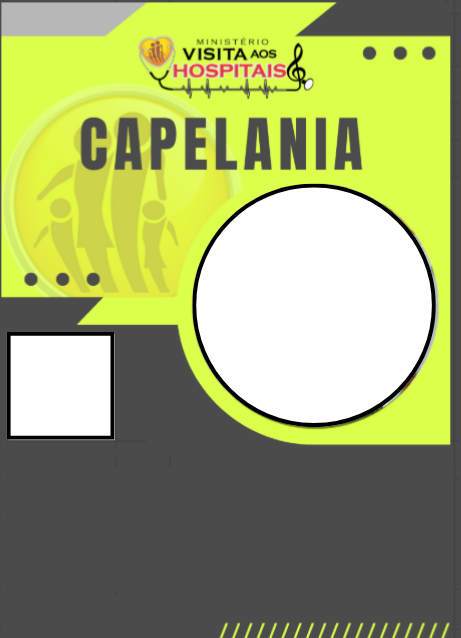
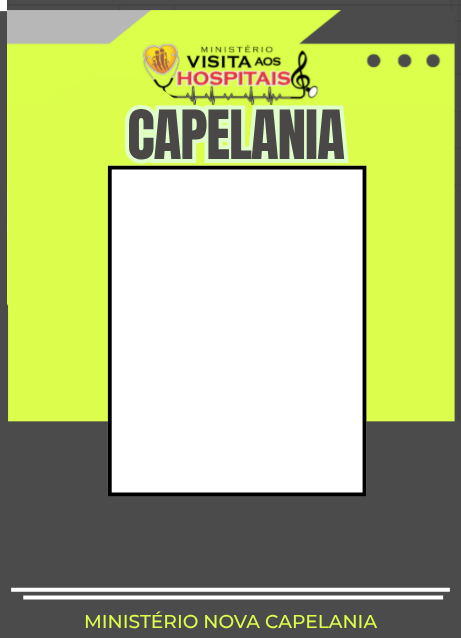
Remove QR code do crachá e ajusta foto pra retângulo (novo layout)
Presença agora é autorregistrada por cada capelão, então o QR de
verificação por Líder deixou de ser necessário. Foto passa de círculo
pra retângulo seguindo a nova arte fornecida (posição calculada por
análise de pixel da imagem, não estimativa visual).

diff --git a/docs/index.html b/docs/index.html
@@ -523,15 +523,13 @@ html,body{height:100%;overflow:hidden;font-family:'DM Sans',sans-serif;backgroun
   }
   .cracha-face.verso{ transform:rotateY(180deg); }
   .cracha-foto{
-    position:absolute; left:42.73%; top:29.47%; width:50.54%; aspect-ratio:1;
-    border-radius:50%; overflow:hidden; background:#e2e8f0;
+    position:absolute; left:24.30%; top:26.65%; width:54.02%; height:50.31%;
+    overflow:hidden; background:#e2e8f0;
     display:flex; align-items:center; justify-content:center; font-weight:700; color:#0f2744; font-size:8cqw;
   }
   .cracha-foto img{ width:100%; height:100%; object-fit:cover }
-  .cracha-qr{ position:absolute; left:2.39%; top:52.66%; width:21.26%; aspect-ratio:1; background:#fff }
-  .cracha-qr img{ width:100%; height:100% }
-  .cracha-nome{ position:absolute; left:5%; top:71%; width:90%; color:#fef9c3; font-weight:800; font-size:6.2cqw; line-height:1.2 }
-  .cracha-rg{ position:absolute; left:5%; top:82%; width:90%; color:#fef9c3; font-weight:700; font-size:4.6cqw }
+  .cracha-nome{ position:absolute; left:5%; top:79%; width:90%; color:#fef9c3; font-weight:800; font-size:6.2cqw; line-height:1.2; text-align:center }
+  .cracha-rg{ position:absolute; left:5%; top:87%; width:90%; color:#fef9c3; font-weight:700; font-size:4.6cqw; text-align:center }
   @media print{
     body > *:not(#sc-cracha){ display:none !important; }
     #sc-cracha .hdr, #sc-cracha .nav, #cracha-acoes{ display:none !important; }
@@ -552,7 +550,6 @@ html,body{height:100%;overflow:hidden;font-family:'DM Sans',sans-serif;backgroun
       <div class="cracha-card" id="cracha-card">
         <div class="cracha-face frente" style="background-image:url('assets/cracha-frente.png')">
           <div class="cracha-foto" id="cracha-foto"></div>
-          <div class="cracha-qr" id="cracha-qr"></div>
           <div class="cracha-nome" id="cracha-nome"></div>
           <div class="cracha-rg" id="cracha-rg"></div>
         </div>
@@ -946,7 +943,7 @@ html,body{height:100%;overflow:hidden;font-family:'DM Sans',sans-serif;backgroun
      sem isso o app instalado (PWA) pode continuar servindo JS antigo do
      cache do navegador por tempo indeterminado, mesmo com o resto do
      site atualizado no GitHub Pages. -->
-<script src="supabase-client.js?v=20260713a"></script>
-<script src="app.js?v=20260713a"></script>
+<script src="supabase-client.js?v=20260716a"></script>
+<script src="app.js?v=20260716a"></script>
 </body>
 </html>

diff --git a/docs/supabase-client.js b/docs/supabase-client.js
@@ -723,12 +723,12 @@ async function supaExcluirEquipe(id) {
 }
 
 // ---------------------------------------------------------------------------
-// Crachá -- dados vêm de `membros` (mesma leitura de sempre); o QR code
-// aponta pra docs/verificar.html, página pública que confirma "membro
-// ativo" sem exigir login (ver 0009_verificacao_publica.sql).
+// Crachá -- dados vêm de `membros` (mesma leitura de sempre). Sem QR code
+// de propósito: cada capelão registra a própria presença hoje, então a
+// verificação por quem escaneia o crachá (docs/verificar.html,
+// 0009_verificacao_publica.sql) deixou de ser necessária -- página e view
+// continuam existindo, só não são mais referenciadas daqui.
 // ---------------------------------------------------------------------------
-const VERIFICACAO_URL = 'https://delmerpereira-code.github.io/novacapelania/verificar.html';
-
 async function supaBuscarDadosCracha(membroId) {
   const { data, error } = await supabaseClient
     .from('membros')
@@ -742,6 +742,5 @@ async function supaBuscarDadosCracha(membroId) {
     nome: data.nome_social || data.nome_completo,
     foto: data.foto_url || '',
     rg: data.rg || '',
-    qrUrl: `https://api.qrserver.com/v1/create-qr-code/?size=240x240&data=${encodeURIComponent(VERIFICACAO_URL + '?id=' + data.id)}`,
   };
 }

diff --git a/docs/app.js b/docs/app.js
@@ -2014,7 +2014,6 @@ async function abrirCracha(membroId) {
   $('cracha-foto').innerHTML = '⏳';
   $('cracha-nome').textContent = '';
   $('cracha-rg').textContent = '';
-  $('cracha-qr').innerHTML = '';
   try {
     const d = await supaBuscarDadosCracha(alvo);
     const temFoto = d.foto && d.foto.indexOf('http') === 0;
@@ -2023,7 +2022,6 @@ async function abrirCracha(membroId) {
       : ini(d.nome);
     $('cracha-nome').textContent = d.nome;
     $('cracha-rg').textContent = d.rg ? ('RG: ' + d.rg) : '';
-    $('cracha-qr').innerHTML = `<img src="${d.qrUrl}" alt="QR de verificação">`;
   } catch (e) {
     msg('Erro ao carregar crachá: ' + e.message, 'er');
   }

diff --git a/README.md b/README.md
@@ -462,6 +462,31 @@ apagando as linhas órfãs e rodando a distribuição de novo — resultado:
 telefone inválido, mesmo critério do sistema antigo), espalhadas entre
 137 integradores (4 a 10 cada), em vez de concentradas em só 21 pessoas.
 
+## Crachá do ministério (2026-07-16)
+
+Tela `sc-cracha` (módulo "Crachá" no início, visível pra todo mundo — cada
+um vê o próprio; Líder também abre o de qualquer membro pelo botão "Ver
+Crachá" na ficha do Cadastro). Frente/verso em flip 3D CSS
+(`.cracha-wrap`/`.cracha-card`/`.cracha-face`), com `@media print`
+convertendo pra layout empilhado (frente + verso) na impressão. Dados
+(nome, RG, foto) vêm direto de `membros` via `supaBuscarDadosCracha()` —
+sem tabela nova.
+
+Arte (`docs/assets/cracha-frente.png` / `cracha-verso.png`) exportada do
+Canva pelo usuário; posição da foto calculada por análise de pixel
+(flood-fill da maior região branca contínua) e convertida pra
+porcentagem de CSS, não por estimativa visual — evita ficar reajustando
+a olho a cada nova exportação.
+
+**Sem QR code de propósito**: a primeira versão tinha QR levando pra
+`docs/verificar.html` (view pública `v_verificacao_membro`,
+`0009_verificacao_publica.sql`), pensado pra Líder confirmar presença
+escaneando o crachá de quem chegou. O usuário decidiu remover — hoje
+cada capelão registra a própria presença direto no app, então a
+verificação por QR deixou de fazer sentido. Página e view continuam no
+repo (não quebra nada deixar), só não são mais referenciadas pela tela
+de crachá.
+
 ## Próximos passos (não bloqueiam uso, mas valem revisão)
 
 1. Resolver os 4 vínculos membro-equipe pendentes da importação original
